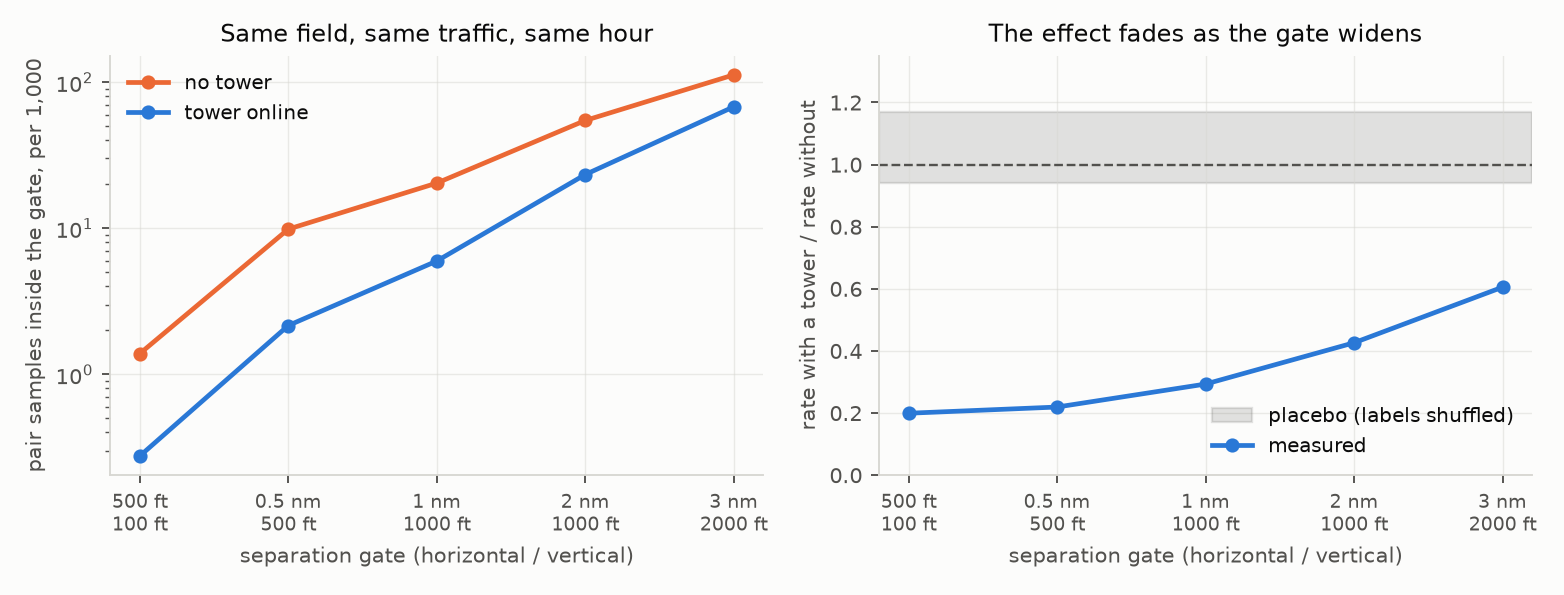
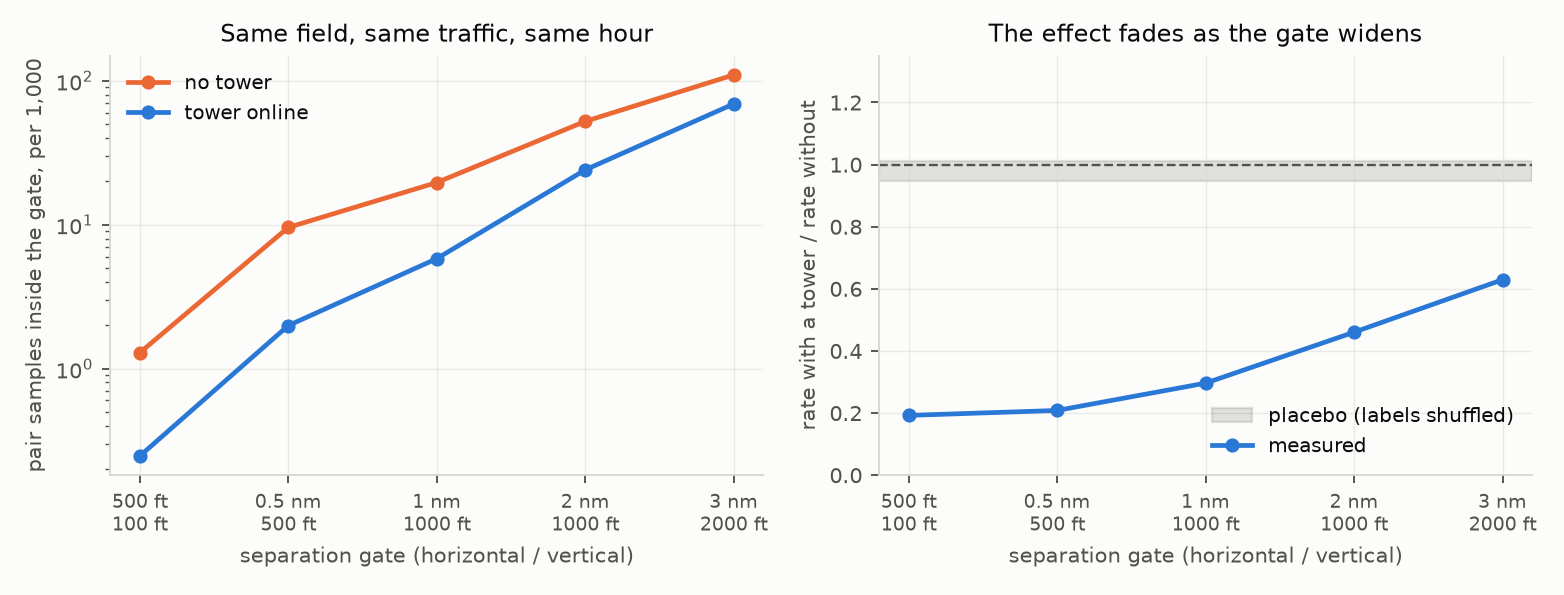
Refresh the controller-presence numbers on 92 hours of feed
Another overnight run brings the collection to 19,056 snapshots over 92
hours, 79 of them actually collected, and evens out the per-hour coverage:
the thinnest hour of the day goes from 0.40 to 0.59, so the daytime trough
that ran in the same direction as the staffing cycle is gone.

Nothing moved. Within field, the 1 nm ratio is 0.296 against 0.293 before,
across 459 strata rather than 431 and 159 airports rather than 149, and the
gradient across gates holds (0.19 at NMAC to 0.63 at 3 nm). The placebo
tightened from 0.94-1.17 to 0.95-1.01, which is what more data should do to
a null.

Also marked the live VATSIM demo as not planned, with the reason: the model
reads 11 samples at 1 Hz and the feed polls every 15 s, so running it live
would mean interpolating the short-horizon motion the attention reads.

diff --git a/README.md b/README.md
@@ -477,9 +477,9 @@ warns about happens more often when nobody is watching, which is the premise the
 rests on and the one the ADS-B datasets cannot test: KBTP's tower status never changes, and
 KAGC did not survive the data quality check. On VATSIM it changes hourly.
 
-77 hours of the public feed, collected here rather than downloaded: 15,394 snapshots, 21.2M
-position reports, 676 airports located from the feed itself, 744k field-snapshots, 231k
-aircraft pairs.
+92 hours of the public feed, 79 of them collected (the machine sleeps), gathered here rather
+than downloaded: 19,056 snapshots, 24.6M position reports, 723 airports located from the
+feed itself, 879k field-snapshots, 248k aircraft pairs.
 
 ![Close-pair rates with and without a tower](docs/figures/controller_presence.png)
 
@@ -492,13 +492,13 @@ arms bring to each stratum.
 
 | separation gate | no tower | tower online | ratio |
 |---|---|---|---|
-| 500 ft / 100 ft (NMAC) | 1.39 | **0.28** | 0.20 |
-| 0.5 nm / 500 ft | 9.85 | **2.16** | 0.22 |
-| 1 nm / 1,000 ft | 20.36 | **5.96** | 0.29 |
-| 2 nm / 1,000 ft | 54.62 | 23.29 | 0.43 |
-| 3 nm / 2,000 ft | 112.06 | 67.75 | 0.61 |
+| 500 ft / 100 ft (NMAC) | 1.29 | **0.25** | 0.19 |
+| 0.5 nm / 500 ft | 9.56 | **1.99** | 0.21 |
+| 1 nm / 1,000 ft | 19.59 | **5.80** | 0.30 |
+| 2 nm / 1,000 ft | 52.12 | 24.00 | 0.46 |
+| 3 nm / 2,000 ft | 109.61 | 68.91 | 0.63 |
 
-Pair samples inside each gate, per 1,000, pooled over 431 within-field strata. Read the
+Pair samples inside each gate, per 1,000, pooled over 459 within-field strata. Read the
 middle row as: a pair of aircraft near an unstaffed field spends 2.0% of its time within a
 mile and 1,000 ft of another aircraft, and 0.6% of it when the same field is staffed at the
 same traffic level and hour.
@@ -513,25 +513,25 @@ one that swung around would mean the result depended on where the threshold was 
 
 | check | result |
 |---|---|
-| within field, all traffic levels | 0.293 |
-| **exactly two aircraft** in the volume, so the traffic stratum is an exact match rather than a bin | 0.382 |
-| top 25 fields by pairs | 0.274 |
-| every other field | 0.301 |
-| leave out any of the five heaviest fields | 0.288 to 0.301 |
-| **placebo: staffing shuffled within each field x count x hour cell** | 0.94, 1.17, 1.10, 1.05, 1.08 |
+| within field, all traffic levels | 0.296 |
+| **exactly two aircraft** in the volume, so the traffic stratum is an exact match rather than a bin | 0.365 |
+| top 25 fields by pairs | 0.305 |
+| every other field | 0.292 |
+| leave out any of the five heaviest fields | 0.292 to 0.303 |
+| **placebo: staffing shuffled within each field x count x hour cell** | 0.95, 1.01, 0.98, 0.96, 1.00 |
 
 The placebo is the strongest of these: it runs the identical pooling over labels that carry
 no information and lands on 1. A bug in the weighting would have shown up there as an
 effect, so it tests the code as well as the design.
 
 Keeping the comparison within a field changes the answer: pooled across airports the same
-data gives 0.54 rather than 0.29, because the unstaffed arm is drawn mostly from small
+data gives 0.53 rather than 0.30, because the unstaffed arm is drawn mostly from small
 fields and the staffed arm from hubs. Cross-field, part of what is being measured is the
 difference between airports rather than the difference between staffing.
 
-**Where the convergences are.** Away from the 25 busiest fields the unstaffed rate is 43.5
-per 1,000 against 9.2 at the hubs, a 4.7x higher baseline, with the same proportional
-reduction when someone is watching. Close convergences concentrate at small fields without
+**Where the convergences are.** Away from the 25 busiest fields the unstaffed rate is 42.5
+per 1,000 against 8.4 at the hubs, a 5.1x higher baseline, with the same proportional
+reduction when someone is watching (0.29 against 0.31). Close convergences concentrate at small fields without
 a tower, which is the traffic this project set out to model.
 
 ### Two defects this analysis hit, and what they cost
@@ -555,9 +555,9 @@ reliably, and reporting the curve avoids picking whichever one happens to work.
 It is a simulation network. These are people flying online, not the national airspace system,
 and the sizes here should not be read as what a real tower is worth. Two specific limits:
 the same data cannot separate a controller's effect from the fact that **pilots who fly with
-ATC online may simply be different pilots**, and 77 hours is one week of one season. What holds up
-despite them is the direction, the gradient across gates, and the fact that both appear at
-149 airports rather than at a favourable few.
+ATC online may simply be different pilots**, and four days is one week of one season. What
+holds up despite them is the direction, the gradient across gates, and the fact that both
+appear at 159 airports rather than at a favourable few.
 
 For PCAS, the premise holds: the convergences it predicts are roughly three times more
 frequent at a field with nobody watching, and their baseline rate is highest at exactly the
@@ -603,7 +603,12 @@ comparison stays with VATSIM, with its simulator caveat stated.
 - [x] Calibrated conflict probability (isotonic, fitted on validation: ECE 0.0211 to 0.0005)
 - [x] Error analysis by flight phase, the mechanism test, and a failure gallery
 - [x] Controlled vs. uncontrolled analysis on VATSIM (within-field, stratified, with a placebo)
-- [ ] Live demo: predicted conflicts on live VATSIM traffic
+- [ ] ~~Live demo: predicted conflicts on live VATSIM traffic~~. Not planned. The model reads
+  11 samples at 1 Hz and the pipeline splits a track at any gap over 5 s, while the feed polls
+  every 15 s. Running it live would mean interpolating eleven 1 Hz points out of one 15 s
+  segment, inventing the short-horizon motion the social attention reads. It would look
+  convincing and would mostly redraw a straight line. A variant retrained at the feed's
+  cadence would be the honest version of this
 
 ## Data sources and terms
 
